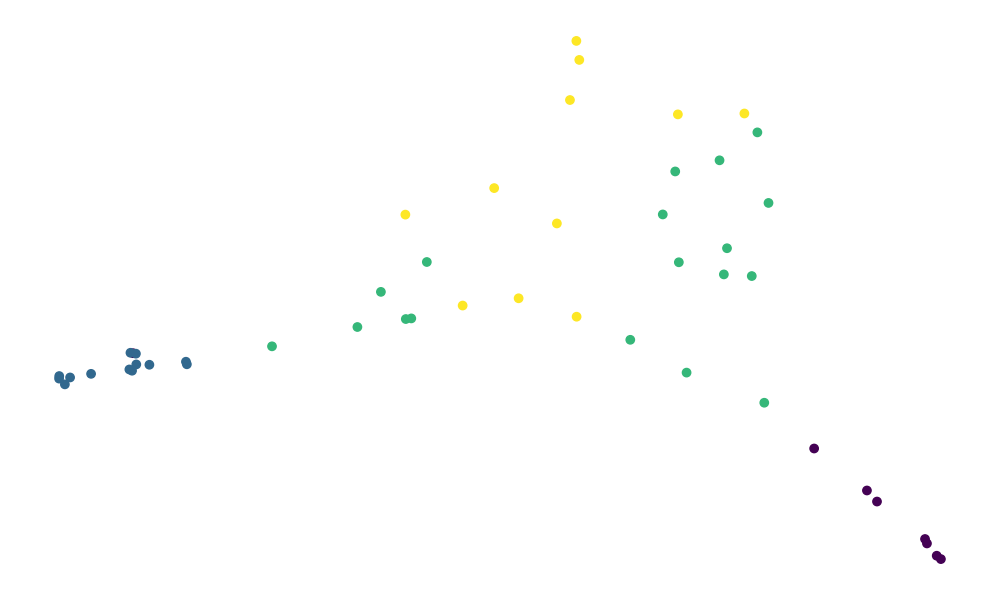
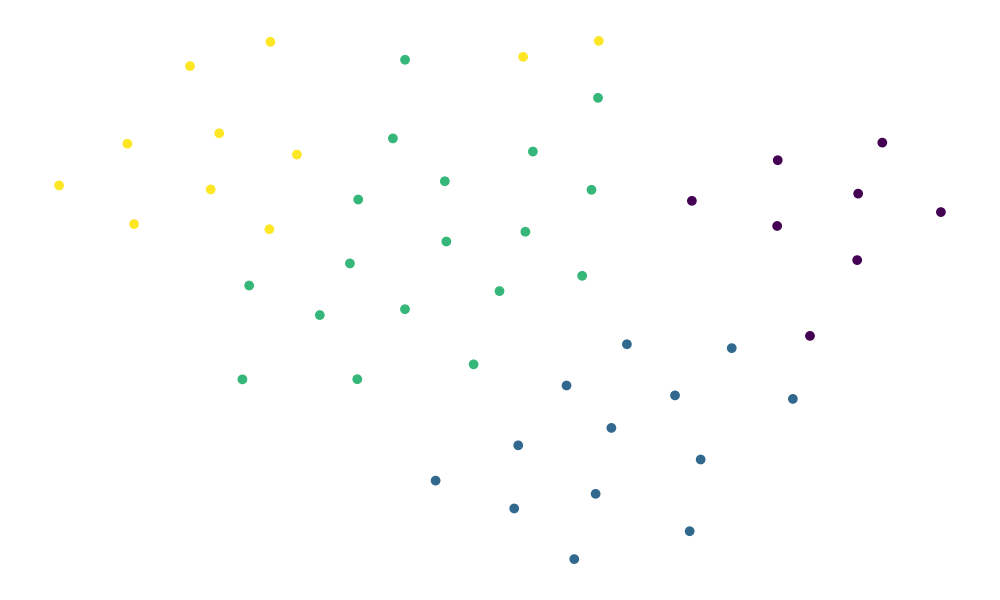
Refractoe

diff --git a/Patrones/Tarea_03/Parte_02/Scripts/SOM.py b/Patrones/Tarea_03/Parte_02/Scripts/SOM.py
@@ -3,38 +3,27 @@ from Modules.functions import obtain_parameters
 from Modules.dataset import data_class
 from Modules.graphics import plot
 
+models_set = {"LLE": {"model": LLE_model_class(),
+                      "file graphics": "SOM_LLE.png"},
+              "Isomap": {"model": TSNE_model_class(),
+                         "file graphics": "SOM_isomap.png"},
+              "TSNE": {"model": Isomap_model_class(),
+                       "file graphics": "SOM_TSNE.png"}}
 parameters = obtain_parameters()
-parameters["file graphics"] = "SOM_LLE.png"
 data = data_class(parameters)
 SOM_model = SOM_model_class()
 SOM_model.run(data.matrix)
 SOM_model.create_classes_dataframe(data.names)
 print(SOM_model.classes)
-LLE_model = LLE_model_class()
-LLE_model.run(data.matrix)
-plot(LLE_model,
-     data.names,
-     parameters,
-     include_images=False,
-     alpha=1,
-     color=SOM_model.results)
 
-parameters["file graphics"] = "SOM_TSNE.png"
-TSNE_model = TSNE_model_class()
-TSNE_model.run(data.matrix)
-plot(TSNE_model,
-     data.names,
-     parameters,
-     include_images=False,
-     alpha=1,
-     color=SOM_model.results)
-
-parameters["file graphics"] = "SOM_isomap.png"
-Isomap_model = Isomap_model_class()
-Isomap_model.run(data.matrix)
-plot(Isomap_model,
-     data.names,
-     parameters,
-     include_images=False,
-     alpha=1,
-     color=SOM_model.results)
+for model_name in models_set:
+    model_set = models_set[model_name]
+    parameters["file graphics"] = model_set["file graphics"]
+    model = model_set["model"]
+    model.run(data.matrix)
+    plot(model,
+         data.names,
+         parameters,
+         include_images=False,
+         alpha=1,
+         color=SOM_model.results)

diff --git a/Patrones/Tarea_03/Parte_02/Scripts/Modules/dataset.py b/Patrones/Tarea_03/Parte_02/Scripts/Modules/dataset.py
@@ -4,16 +4,29 @@ from numpy import loadtxt
 
 
 class data_class:
+    """
+    Lectura y organización de base de datos de animals with attributes
+    ------
+    Inputs:
+    + parameters -> diccionario con los parametros de la localizacion y nombre de cada archivo. Estos pueden ser modificados en la funcion obtain_parameters
+    """
+
     def __init__(self, parameters: dict) -> None:
         self.parameters = parameters
         self.read()
 
     def read(self):
+        """
+        Lectura de la matriz de atributos y nombres de los animales
+        """
         self.read_matrix()
         self.read_classes()
         self.len = len(self.colors)
 
     def read_matrix(self):
+        """
+        Lectura de la matriz de atributos
+        """
         filename = join_path(self.parameters["path data"],
                              self.parameters["matrix file"])
         data = loadtxt(filename)
